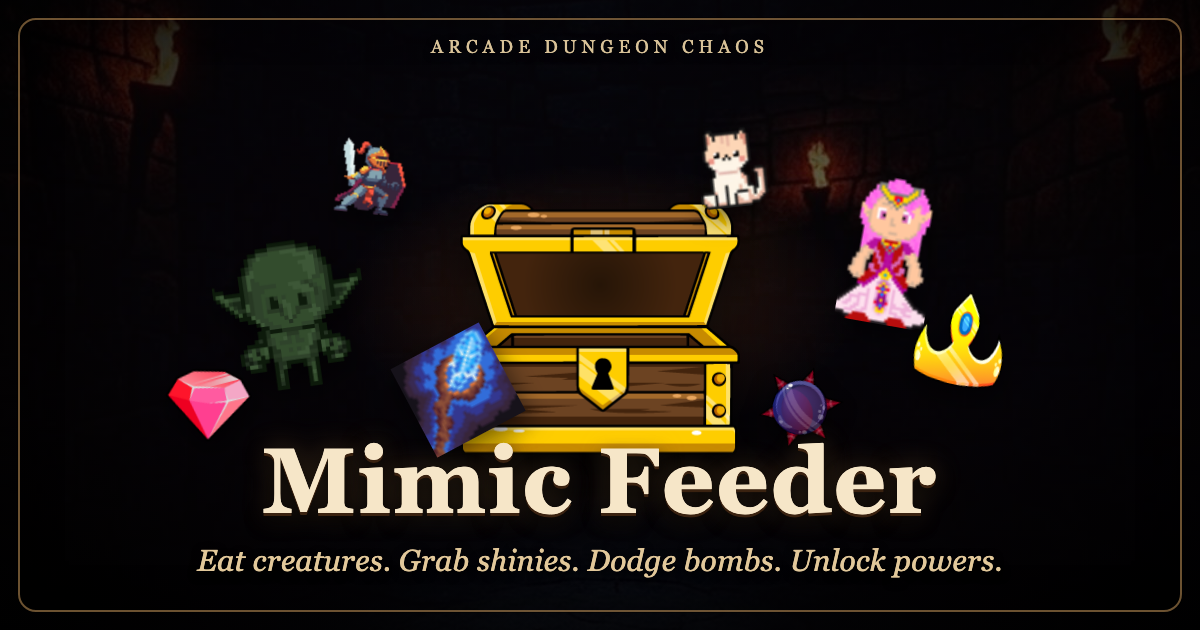
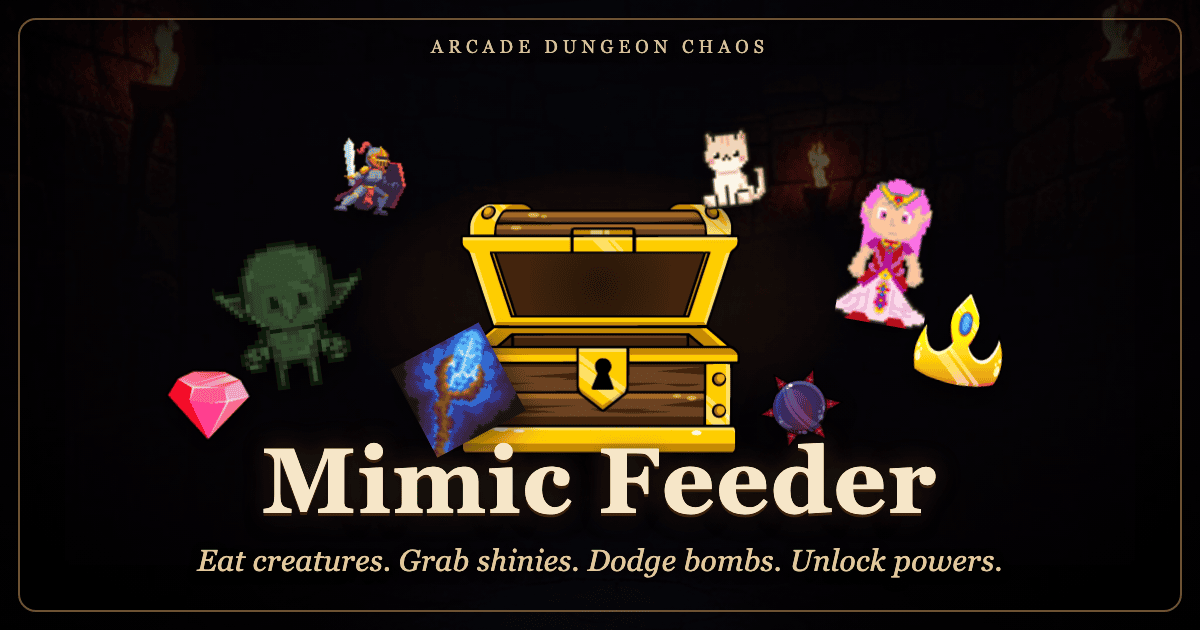
Recompress OG image for lighter social previews (L8).
Replace full RGB og-image.png with a ~132KB palette PNG at the same 1200x630 size so share cards load faster without path or meta changes.

diff --git a/CODE_REVIEW.md b/CODE_REVIEW.md
@@ -142,9 +142,10 @@ Severity: **High** / **Medium** / **Low** / **Nit**. Status all **open** unless 
 - **Where:** `.gitignore`
 - **Now:** `.DS_Store` ignored.
 
-#### L8 — OG image slightly heavy
-- **Where:** `src/assets/og-image.png` ~563 KB at 1200×630
-- **Suggestion:** Recompress toward ~200–400 KB if share-card weight matters.
+#### L8 — OG image slightly heavy — **Fixed (2026-07-09)**
+- **Where:** `src/assets/og-image.png`
+- **Was:** ~563–577 KB RGB PNG at 1200×630
+- **Now:** ~132 KB palette PNG (pngquant quality 65–80), same dimensions; meta URLs unchanged.
 
 ---
 
